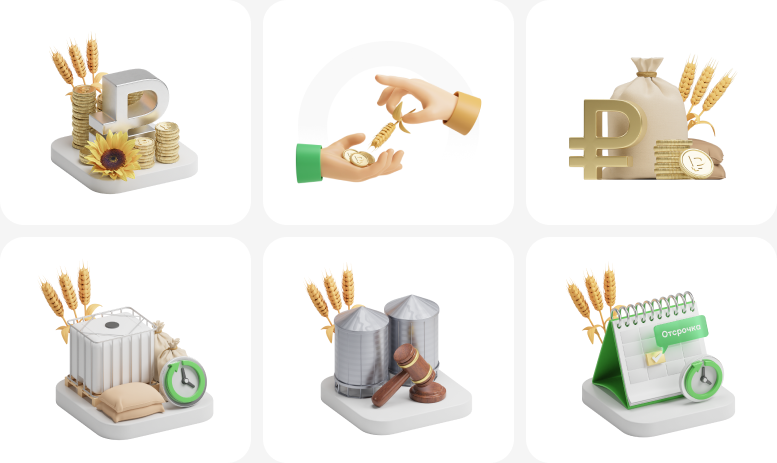
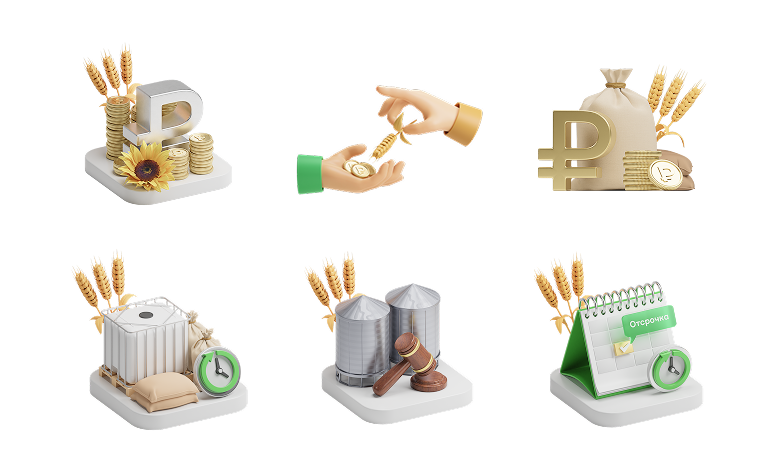
Update case pages: drop Contacts nav, refresh case-04 visuals and copy

diff --git a/case-04.html b/case-04.html
@@ -46,7 +46,6 @@
             <a class="side-nav__link js-nav-link" href="#case-pole-rf">Поле.рф</a>
             <a class="side-nav__link js-nav-link" href="#case-dribbble-shots">Dribbble shots</a>
             <a class="side-nav__link js-nav-link" href="#case-mockups">Другое</a>
-            <a class="side-nav__link js-nav-link" href="#contact">Контакты</a>
           </nav>
         </div>
         <a class="btn btn--primary" href="./src/assets/docs/Barbarov-Anton-CV.pdf" target="_blank" rel="noopener noreferrer">
@@ -171,9 +170,9 @@
               </div>
 
               <p class="case-intro__description">
-                Собрал здесь визуалы из разных периодов: то, что делал для «поле.рф», шоты с
-                Dribbble и более ранние работы. Цель — показать визуальный крафт рядом с
-                продуктовым дизайном.
+                Собрал подборку визуалов из разных периодов — работы для «поле.рф», шоты с
+                Dribbble и ранние проекты. Цель подборки — продемонстрировать, как T-shaped
+                развитие расширяет возможности продуктового дизайнера.
               </p>
             </div>
 
@@ -184,7 +183,10 @@
                   <span></span><span></span><span></span><span></span><span></span><span></span>
                 </div>
                 <h2 class="case-result-card__value">70+</h2>
-                <p class="case-result-card__label">Подготовлено иллюстраций</p>
+                <p class="case-result-card__label">
+                  иллюстраций
+                  <br class="case-result-card__br" />на «поле.рф»
+                </p>
               </article>
               <article class="case-result-card">
                 <div class="case-result-card__confetti" aria-hidden="true">
@@ -192,7 +194,10 @@
                   <span></span><span></span><span></span><span></span><span></span><span></span>
                 </div>
                 <h2 class="case-result-card__value">30+</h2>
-                <p class="case-result-card__label">Подготовлено 3D-тизеров</p>
+                <p class="case-result-card__label">
+                  3D-тизеров
+                  <br class="case-result-card__br" />на «поле.рф»
+                </p>
               </article>
               <article class="case-result-card">
                 <div class="case-result-card__confetti" aria-hidden="true">
@@ -201,7 +206,8 @@
                 </div>
                 <h2 class="case-result-card__value">100+</h2>
                 <p class="case-result-card__label">
-                  Подготовлено 3D<span class="type-sign">-</span>иконок
+                  3D<span class="type-sign">-</span>иконок
+                  <br class="case-result-card__br" />на «поле.рф»
                 </p>
               </article>
             </div>
@@ -223,10 +229,10 @@
               <section class="case-content__section" aria-label="Роль и команда">
                 <h2 class="case-content__title">Роль и команда</h2>
                 <p class="case-content__text">
-                  Визуалы для «поле.рф» вёл по своей инициативе: убеждал руководство в ценности
-                  уникального контента и согласовывал направление в основном с
-                  product<span class="type-sign">-</span>менеджером. Dribbble и ранние работы —
-                  личный крафт вне этого контура.
+                  Визуалы для «поле.рф» создавал во многом по своей инициативе: убеждал
+                  руководство в ценности уникального контента и согласовывал направление в
+                  основном с product<span class="type-sign">-</span>менеджером. Dribbble и ранние
+                  работы — личный крафт вне этого контура.
                 </p>
               </section>
             </div>
@@ -234,8 +240,10 @@
             <section class="case-showcase" id="case-pole-rf" aria-label="Поле.рф">
               <h2 class="case-content__title case-showcase__title">Поле.рф</h2>
               <p class="case-content__text">
-                Для «поле.рф» делаю визуал под продукт: лендинги, баннеры, каверы,
-                документы. Стек — Figma, Blender и Krea (AI). Ниже — часть работ.
+                Для проекта «поле.рф» создаю визуальные материалы под разные продукты —
+                лендинги, баннеры, каверы в фигме и другое. В работе использую следующий стек
+                инструментов: Figma, Blender и Krea (AI агрегатор). Ниже представлена подборка
+                части выполненных работ.
               </p>
               <div
                 class="case-carousel case-carousel--h463 js-carousel"
@@ -249,7 +257,7 @@
                     <li class="case-carousel__slide is-active" data-slide="0">
                       <img
                         class="case-carousel__img"
-                        src="./src/assets/img/cases/case-04-pole-01.png"
+                        src="./src/assets/img/cases/case-04-pole-01.png?v=2"
                         alt="3D-иконки поле.рф: финансы и урожай"
                         width="777"
                         height="463"
@@ -259,7 +267,7 @@
                     <li class="case-carousel__slide" data-slide="1" aria-hidden="true">
                       <img
                         class="case-carousel__img"
-                        src="./src/assets/img/cases/case-04-pole-02.png"
+                        src="./src/assets/img/cases/case-04-pole-02.png?v=2"
                         alt="3D-иконки поле.рф: сервисы и заявки"
                         width="777"
                         height="463"
@@ -270,6 +278,17 @@
                     <li class="case-carousel__slide" data-slide="2" aria-hidden="true">
                       <img
                         class="case-carousel__img"
+                        src="./src/assets/img/cases/case-04-pole-07.png?v=2"
+                        alt="3D-визуал DESIGN LAB"
+                        width="777"
+                        height="463"
+                        loading="lazy"
+                        decoding="async"
+                      />
+                    </li>
+                    <li class="case-carousel__slide" data-slide="3" aria-hidden="true">
+                      <img
+                        class="case-carousel__img"
                         src="./src/assets/img/cases/case-04-pole-03.png"
                         alt="3D-визуал дизайн-системы поле.рф"
                         width="777"
@@ -278,7 +297,7 @@
                         decoding="async"
                       />
                     </li>
-                    <li class="case-carousel__slide" data-slide="3" aria-hidden="true">
+                    <li class="case-carousel__slide" data-slide="4" aria-hidden="true">
                       <img
                         class="case-carousel__img"
                         src="./src/assets/img/cases/case-04-pole-04.png"
@@ -289,7 +308,7 @@
                         decoding="async"
                       />
                     </li>
-                    <li class="case-carousel__slide" data-slide="4" aria-hidden="true">
+                    <li class="case-carousel__slide" data-slide="5" aria-hidden="true">
                       <img
                         class="case-carousel__img"
                         src="./src/assets/img/cases/case-04-pole-05.png"
@@ -300,22 +319,11 @@
                         decoding="async"
                       />
                     </li>
-                    <li class="case-carousel__slide" data-slide="5" aria-hidden="true">
+                    <li class="case-carousel__slide" data-slide="6" aria-hidden="true">
                       <img
                         class="case-carousel__img"
                         src="./src/assets/img/cases/case-04-pole-06.png"
                         alt="3D-визуал Поле-Кредит"
-                        width="777"
-                        height="463"
-                        loading="lazy"
-                        decoding="async"
-                      />
-                    </li>
-                    <li class="case-carousel__slide" data-slide="6" aria-hidden="true">
-                      <img
-                        class="case-carousel__img"
-                        src="./src/assets/img/cases/case-04-pole-07.png"
-                        alt="3D-визуал DESIGN LAB"
                         width="777"
                         height="463"
                         loading="lazy"
@@ -843,7 +851,6 @@
             <a class="mobile-menu__link js-nav-link" href="#case-pole-rf">Поле.рф</a>
             <a class="mobile-menu__link js-nav-link" href="#case-dribbble-shots">Dribbble shots</a>
             <a class="mobile-menu__link js-nav-link" href="#case-mockups">Другое</a>
-            <a class="mobile-menu__link js-nav-link" href="#contact">Контакты</a>
           </nav>
         </div>
         <div class="mobile-menu__footer">

diff --git a/case-02.html b/case-02.html
@@ -48,7 +48,6 @@
             <a class="side-nav__link js-nav-link" href="#case-global-components-title">Глобальные компоненты</a>
             <a class="side-nav__link js-nav-link" href="#case-tokens-title">Токены</a>
             <a class="side-nav__link js-nav-link" href="#case-results-block">Результаты</a>
-            <a class="side-nav__link js-nav-link" href="#contact">Контакты</a>
           </nav>
         </div>
         <a class="btn btn--primary" href="./src/assets/docs/Barbarov-Anton-CV.pdf" target="_blank" rel="noopener noreferrer">
@@ -375,31 +374,6 @@
                   <details class="case-accordion">
                     <summary class="case-accordion__summary">
                       <span class="case-accordion__label">
-                        <span class="case-accordion__icon" aria-hidden="true">🚜</span>
-                        Icon packs
-                      </span>
-                      <span class="case-accordion__chevron" aria-hidden="true"></span>
-                    </summary>
-                    <div class="case-accordion__content">
-                      <div class="case-accordion__content-inner">
-                        <img
-                          class="case-accordion__img"
-                          src="./src/assets/img/cases/universal/accordeon-07.png"
-                          alt="Набор 3D-иконок"
-                          decoding="async"
-                        />
-                        <img
-                          class="case-accordion__img"
-                          src="./src/assets/img/cases/universal/accordeon-07-glass.png"
-                          alt="Набор glass-иконок"
-                          decoding="async"
-                        />
-                      </div>
-                    </div>
-                  </details>
-                  <details class="case-accordion">
-                    <summary class="case-accordion__summary">
-                      <span class="case-accordion__label">
                         <span class="case-accordion__icon" aria-hidden="true">🫸</span>
                         Button
                       </span>
@@ -436,6 +410,25 @@
                           class="case-accordion__img"
                           src="./src/assets/img/cases/universal/accordeon-09.png"
                           alt="Компонент Modal и его размеры"
+                          decoding="async"
+                        />
+                      </div>
+                    </div>
+                  </details>
+                  <details class="case-accordion">
+                    <summary class="case-accordion__summary">
+                      <span class="case-accordion__label">
+                        <span class="case-accordion__icon" aria-hidden="true">🚜</span>
+                        Status icon pack
+                      </span>
+                      <span class="case-accordion__chevron" aria-hidden="true"></span>
+                    </summary>
+                    <div class="case-accordion__content">
+                      <div class="case-accordion__content-inner">
+                        <img
+                          class="case-accordion__img"
+                          src="./src/assets/img/cases/universal/accordeon-07-glass.png"
+                          alt="Набор glass-иконок"
                           decoding="async"
                         />
                       </div>
@@ -1084,7 +1077,6 @@
             <a class="mobile-menu__link js-nav-link" href="#case-global-components-title">Глобальные компоненты</a>
             <a class="mobile-menu__link js-nav-link" href="#case-tokens-title">Токены</a>
             <a class="mobile-menu__link js-nav-link" href="#case-results-block">Результаты</a>
-            <a class="mobile-menu__link js-nav-link" href="#contact">Контакты</a>
           </nav>
         </div>
         <div class="mobile-menu__footer">

diff --git a/case-01.html b/case-01.html
@@ -48,7 +48,6 @@
             <a class="side-nav__link js-nav-link" href="#case-application-form">Форма подачи заявки</a>
             <a class="side-nav__link js-nav-link" href="#case-banners-hints">Баннеры и подсказки</a>
             <a class="side-nav__link js-nav-link" href="#case-results-block">Результаты</a>
-            <a class="side-nav__link js-nav-link" href="#contact">Контакты</a>
           </nav>
         </div>
         <a class="btn btn--primary" href="./src/assets/docs/Barbarov-Anton-CV.pdf" target="_blank" rel="noopener noreferrer">
@@ -232,7 +231,7 @@
                 <p class="case-content__text">
                   Я был единственным дизайнером на продукте. Работал в связке с PM,
                   финансовым и системным аналитиками. Эвент шторминги, груминги,
-                  исследования и ux решения шли совместно.
+                  исследования и UX решения шли совместно.
                 </p>
               </section>
 
@@ -1206,7 +1205,6 @@
               >Баннеры и подсказки</a
             >
             <a class="mobile-menu__link js-nav-link" href="#case-results-block">Результаты</a>
-            <a class="mobile-menu__link js-nav-link" href="#contact">Контакты</a>
           </nav>
         </div>
         <div class="mobile-menu__footer">

diff --git a/case-03.html b/case-03.html
@@ -45,7 +45,6 @@
             <a class="side-nav__link js-nav-link is-active" href="#main">Описание</a>
             <a class="side-nav__link js-nav-link" href="#case-process-title">Процесс работы</a>
             <a class="side-nav__link js-nav-link" href="#case-results-block">Результаты</a>
-            <a class="side-nav__link js-nav-link" href="#contact">Контакты</a>
           </nav>
         </div>
         <a class="btn btn--primary" href="./src/assets/docs/Barbarov-Anton-CV.pdf" target="_blank" rel="noopener noreferrer">
@@ -1343,7 +1342,6 @@
             <a class="mobile-menu__link js-nav-link is-active" href="#main">Описание</a>
             <a class="mobile-menu__link js-nav-link" href="#case-process-title">Процесс работы</a>
             <a class="mobile-menu__link js-nav-link" href="#case-results-block">Результаты</a>
-            <a class="mobile-menu__link js-nav-link" href="#contact">Контакты</a>
           </nav>
         </div>
         <div class="mobile-menu__footer">
